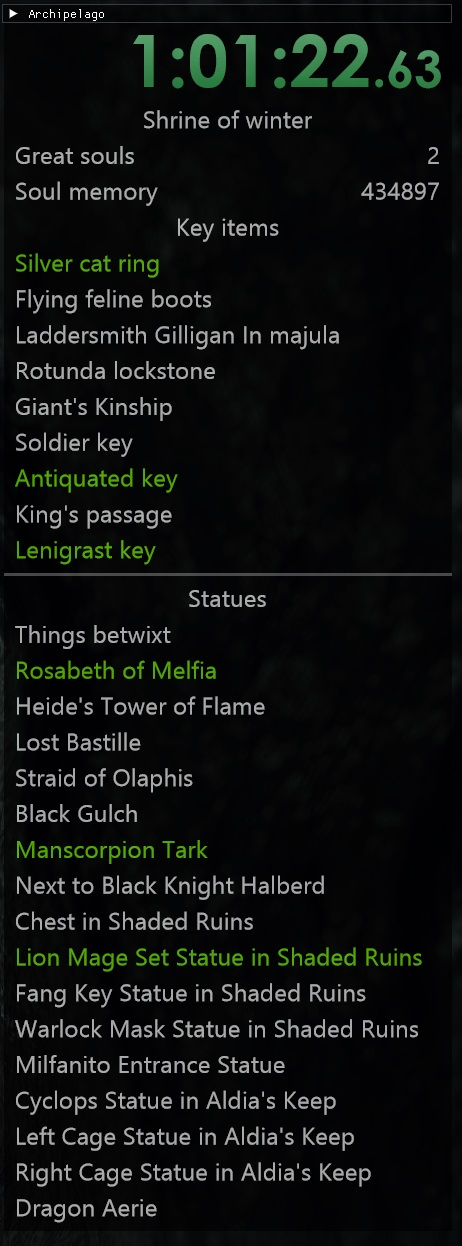
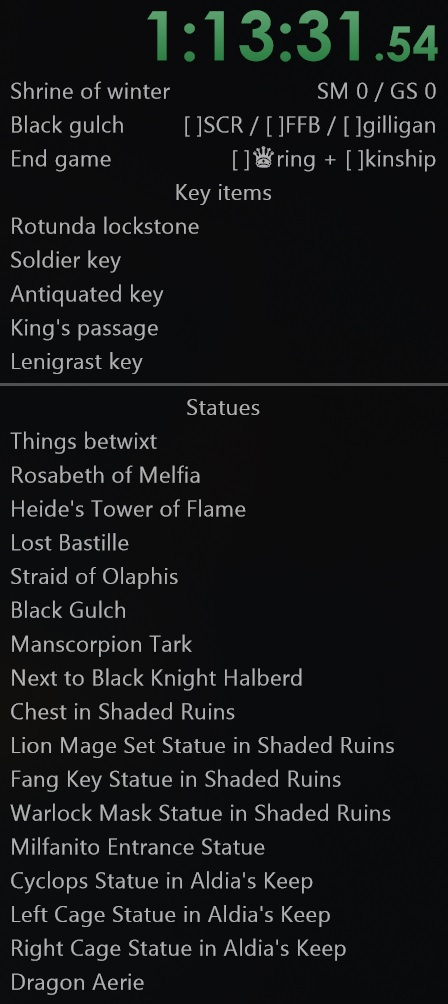
Updated screenshot

diff --git a/README.md b/README.md
@@ -2,7 +2,7 @@ This is a tracker for Dark Souls II Scholar of The First Sin obtimized for Archi
 
 It tracks Key items and statues nececssary for exploring / finishing the randomized Archipelago game
 
-![](https://raw.githubusercontent.com/cobrce/DS2-Tracker-for-Archipelago/refs/heads/master/ScreenShot.jpg)
+![](https://raw.githubusercontent.com/cobrce/DS2-Tracker-for-Archipelago/refs/heads/compact/ScreenShot.jpg)
 
 
 # Shrine of winter:
